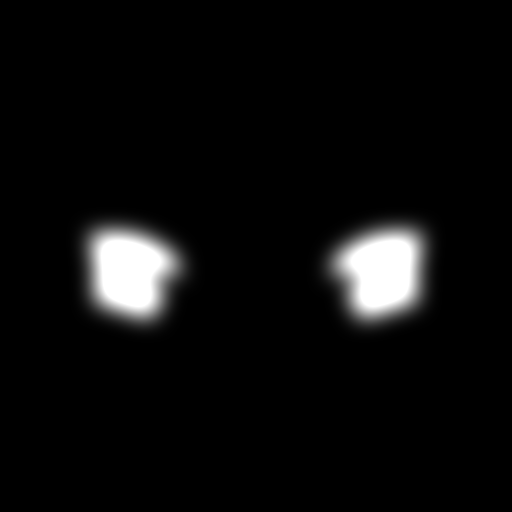
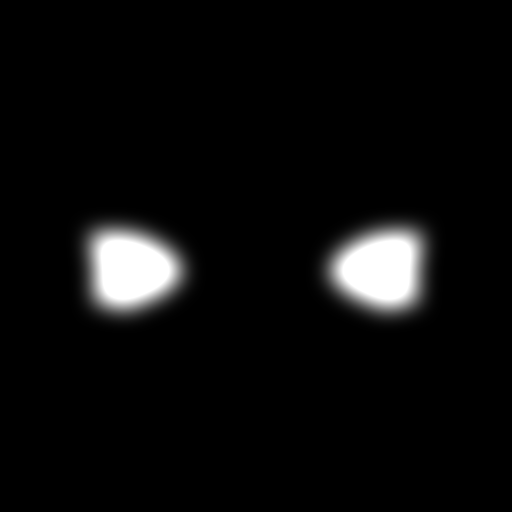
refactor: 부위 점 번호를 AI와 같이 쓰는 공유 파일로 옮기고 볼 점 확정
AI도 레퍼런스에서 영역을 찾고 뺄 때 같은 부위 점 묶음을 쓰므로, regions.ts에만 있던 REGIONS를
shared/face-mesh/regions.v1.json으로 옮기고 FE는 그 파일을 읽는다. Next가 frontend 밖 파일을 읽도록
turbopack.root를 저장소 루트로 둔다. 볼은 안쪽 점(50·280) 때문에 외곽선이 움푹 들어가 빼고 확정했다.

Refs: S15P31A306-78

Changed region(s): [[0.2188, 0.5, 0.375, 0.6562], [0.625, 0.5, 0.7812, 0.6562]]

diff --git a/frontend/src/features/face/regions.ts b/frontend/src/features/face/regions.ts
@@ -1,3 +1,7 @@
+// 부위 점 번호는 AI(Python)와 같이 쓰도록 shared/face-mesh/regions.v1.json에 둔다.
+// 픽스처 생성 스크립트도 Node에서 바로 읽으므로 JSON은 import 속성을 붙여 가져온다.
+import shared from "../../../../shared/face-mesh/regions.v1.json" with { type: "json" };
+
 import type { RegionName } from "./types";
 
 export const RIGHT_IRIS_CENTER = 468;
@@ -11,61 +15,53 @@ interface RegionDef {
   side: "left" | "right" | "center";
 }
 
-export const REGIONS: Record<RegionName, RegionDef> = {
-  rightEye: {
-    indices: [33, 246, 161, 160, 159, 158, 157, 173, 133, 155, 154, 153, 145, 144, 163, 7],
-    axis: [133, 33],
-    side: "right",
-  },
-  leftEye: {
-    indices: [263, 466, 388, 387, 386, 385, 384, 398, 362, 382, 381, 380, 374, 373, 390, 249],
-    axis: [362, 263],
-    side: "left",
-  },
-  rightBrow: {
-    indices: [46, 53, 52, 65, 55, 107, 66, 105, 63, 70],
-    axis: [55, 46],
-    side: "right",
-  },
-  leftBrow: {
-    indices: [276, 283, 282, 295, 285, 336, 296, 334, 293, 300],
-    axis: [285, 276],
-    side: "left",
-  },
-  lipsOuter: {
-    indices: [
-      61, 185, 40, 39, 37, 0, 267, 269, 270, 409, 291, 375, 321, 405, 314, 17, 84, 181, 91, 146,
-    ],
-    axis: [61, 291],
-    side: "center",
-  },
-  lipsInner: {
-    indices: [
-      78, 191, 80, 81, 82, 13, 312, 311, 310, 415, 308, 324, 318, 402, 317, 14, 87, 178, 88, 95,
-    ],
-    axis: [78, 308],
-    side: "center",
-  },
-  // TODO: 후보값. 디버그 화면에서 실측 후 확정
-  rightCheek: {
-    indices: [123, 116, 117, 118, 101, 36, 50, 205, 207, 147],
-    axis: [234, 454],
-    side: "right",
-  },
-  leftCheek: {
-    indices: [330, 347, 346, 345, 352, 376, 427, 425, 280, 266],
-    axis: [234, 454],
-    side: "left",
-  },
-  faceOval: {
-    indices: [
-      10, 338, 297, 332, 284, 251, 389, 356, 454, 323, 361, 288, 397, 365, 379, 378, 400, 377, 152,
-      148, 176, 149, 150, 136, 172, 58, 132, 93, 234, 127, 162, 21, 54, 103, 67, 109,
-    ],
-    axis: [234, 454],
-    side: "center",
-  },
-};
+const SIDES: readonly RegionDef["side"][] = ["left", "right", "center"];
+
+// 공유 파일의 부위 이름은 RegionName과 정확히 같아야 한다.
+const NAMES = {
+  rightEye: true,
+  leftEye: true,
+  rightBrow: true,
+  leftBrow: true,
+  lipsOuter: true,
+  lipsInner: true,
+  rightCheek: true,
+  leftCheek: true,
+  faceOval: true,
+} satisfies Record<RegionName, true>;
+
+// 메시 꼭짓점은 0~467이다. 홍채(468~)는 메시에 없다.
+const isMeshVertex = (i: number) => Number.isInteger(i) && i >= 0 && i < RIGHT_IRIS_CENTER;
+
+/** 공유 파일의 한 부위를 확인해 RegionDef로 바꾼다. 형식이 틀리면 화면을 그리기 전에 알 수 있게 바로 멈춘다. */
+function toRegionDef(name: string, region: { indices: number[]; axis: number[]; side: string }) {
+  const side = SIDES.find((s) => s === region.side);
+  if (
+    !Object.hasOwn(NAMES, name) ||
+    region.indices.length < 3 ||
+    !region.indices.every(isMeshVertex) ||
+    region.axis.length !== 2 ||
+    !region.axis.every(isMeshVertex) ||
+    !side
+  ) {
+    throw new Error(`regions.v1.json의 ${name} 형식이 맞지 않습니다`);
+  }
+  return {
+    indices: region.indices,
+    axis: [region.axis[0], region.axis[1]],
+    side,
+  } satisfies RegionDef;
+}
+
+const missing = Object.keys(NAMES).filter((name) => !Object.hasOwn(shared.regions, name));
+if (missing.length > 0) {
+  throw new Error(`regions.v1.json에 부위가 빠졌습니다: ${missing.join(", ")}`);
+}
+
+export const REGIONS = {} as Record<RegionName, RegionDef>;
+for (const [name, region] of Object.entries(shared.regions)) {
+  REGIONS[name as RegionName] = toRegionDef(name, region);
+}
 
 export const REGION_NAMES = Object.keys(REGIONS) as RegionName[];
 

diff --git a/frontend/next.config.ts b/frontend/next.config.ts
@@ -1,3 +1,5 @@
+import { join } from "node:path";
+
 import type { NextConfig } from "next";
 
 // 개발 서버에서만 /api를 BE로 넘긴다. 배포에서는 같은 Origin의 리버스 프록시가 맡는다.
@@ -19,6 +21,8 @@ const nextConfig: NextConfig = {
     unoptimized: true,
   },
   turbopack: {
+    // 부위 점 번호처럼 AI와 같이 쓰는 파일(../shared)을 import할 수 있도록 저장소 루트를 기준으로 삼는다.
+    root: join(__dirname, ".."),
     rules: {
       "*.css": {
         loaders: ["@tailwindcss/turbopack"],

diff --git a/docs/requests/README.md b/docs/requests/README.md
@@ -22,7 +22,6 @@
 | [튜토리얼 가이드 영역 데이터 형식 반영](2026-10-28-hyeonsoo-seoyun-guide-region-format.md) | 2026-10-28 | 김현수 → 한서윤 | 요청 |
 | [하위 단계별 기본 가이드](2026-10-28-hyeonsoo-seoyun-default-guide-by-step.md) | 2026-10-28 | 김현수 → 한서윤 | 요청 |
 | [가이드 빼는 영역 처리](2026-10-28-hyeonsoo-seoyun-guide-exclude.md) | 2026-10-28 | 김현수 → 한서윤 | 요청 |
-| [부위 점 번호 공유와 볼 점 번호 확정](2026-10-28-hyeonsoo-seoyun-region-points-shared.md) | 2026-10-28 | 김현수 → 한서윤 | 요청 |
 | [레퍼런스 프레임 전달](2026-10-28-hyeonsoo-jungyoon-reference-frames.md) | 2026-10-28 | 김현수 → 김정윤 | 요청 |
 | [화장 종류 값 10개 반영](2026-10-28-hyeonsoo-jungyoon-makeup-values.md) | 2026-10-28 | 김현수 → 김정윤 | 요청 |
 | [API 명세 v2 도포 정보 대응 확인](2026-10-28-hyeonsoo-jungyoon-api-v2-application.md) | 2026-10-28 | 김현수 → 김정윤 | 요청 |

diff --git a/docs/requests/2026-10-28-hyeonsoo-seoyun-guide-exclude.md b/docs/requests/2026-10-28-hyeonsoo-seoyun-guide-exclude.md
@@ -39,4 +39,3 @@ FE 색 레이어는 이미 같은 칸을 처리합니다. `frontend/src/features
 ## 함께 보내는 요청
 
 - 튜토리얼 가이드 영역 데이터 형식 반영: [2026-10-28-hyeonsoo-seoyun-guide-region-format.md](2026-10-28-hyeonsoo-seoyun-guide-region-format.md)
-- 부위 점 번호 공유: [2026-10-28-hyeonsoo-seoyun-region-points-shared.md](2026-10-28-hyeonsoo-seoyun-region-points-shared.md)
